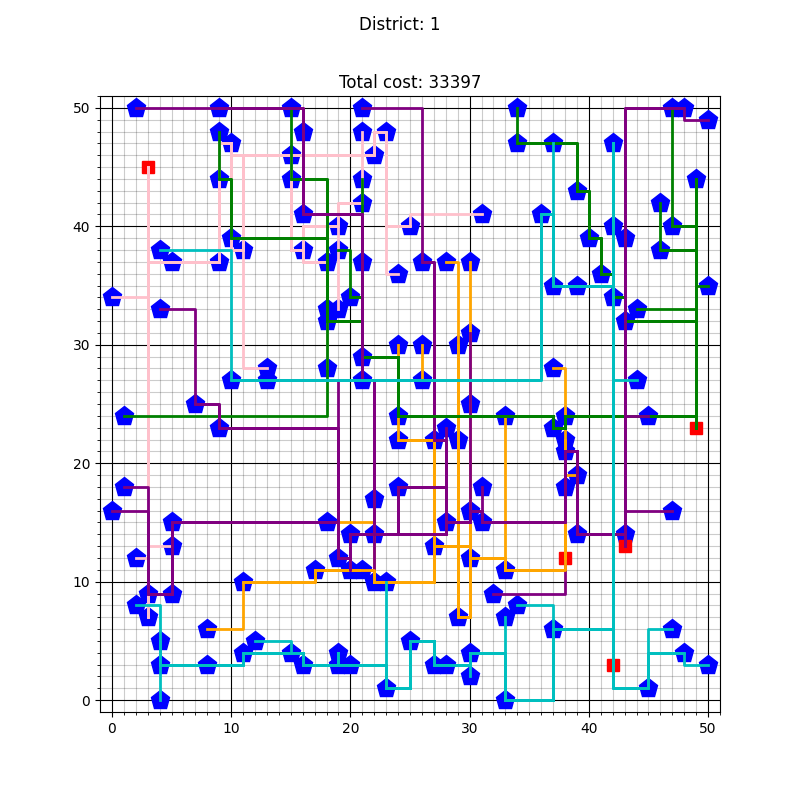
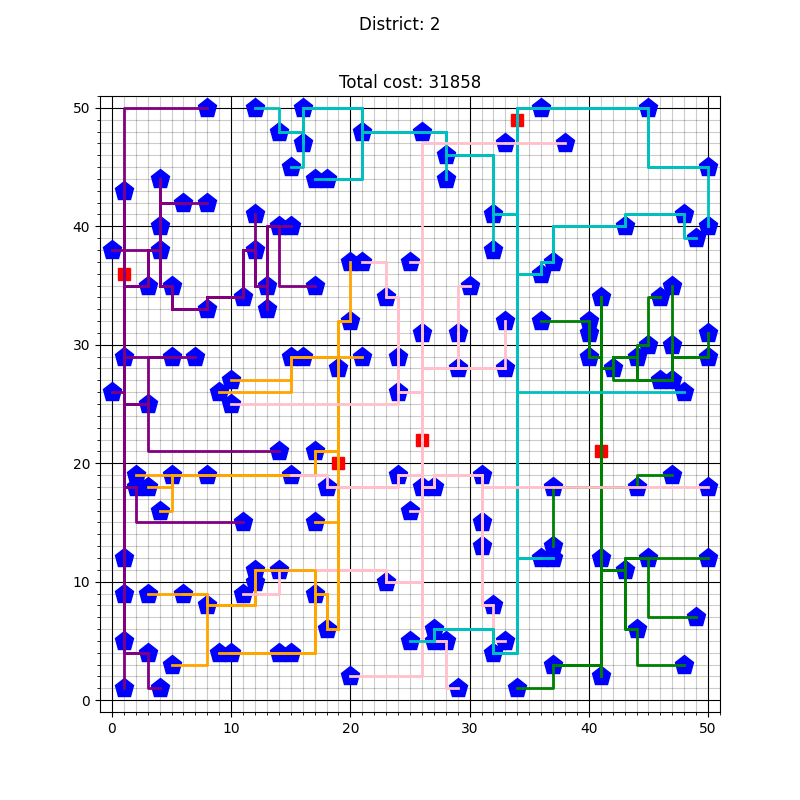
einde dag 2

Changed region(s): [[0.125, 0.125, 0.9062, 0.9062], [0.5312, 0.0938, 0.5938, 0.125], [0.1562, 0.125, 0.1875, 0.1562]]

diff --git a/code/algorithms/oud/classInitialSolution_noRandom.py b/code/algorithms/oud/classInitialSolution_noRandom.py
@@ -24,12 +24,14 @@ class InitialSolution(Grid):
 
         self.startConnect()
 
-        while len(self.cables) < 150:
+        self.allConnected = False
+        #while len(self.cables) < 150:
+        while not self.allConnected:
             self.connectLeftovers()
 
         return True
         
-        
+
     def startConnect(self):
         self.freeHouses = []
 
@@ -48,25 +50,61 @@ class InitialSolution(Grid):
         
 
     def connectLeftovers(self):
-
+        baseRemainingBatteryCapacity = {}
         for battery in self.batteries:
             housesInBattery = self.housesPerBattery(battery)
             house = housesInBattery[-1]
+            
             if self.removeConnection(house):
                 self.freeHouses.append(house)
+            
+            baseRemainingBatteryCapacity[battery] = battery.remainingCapacity()
+            #print(remainingBatteryCapacity[battery])
 
-        for i in range(200):
-            random.shuffle(self.freeHouses)
+        #permutationsList = [(0, 1, 3, 4, 6, 7, 8, 10, 2, 5, 9)]
+        n = len(self.freeHouses)
+        
+        #perms = list(permutations(range(n), n))
+        #perms = [perms[0], perms[1]]
+
+        for attempt in permutations(range(n), n):
+        #for attempt in perms:
+            #currentRemainingBatteryCapacity= copy.deepcopy(baseRemainingBatteryCapacity)
+            #print(attempt)
+            currentRemainingBatteryCapacity = {}
+
+            for battery in self.batteries:
+                currentRemainingBatteryCapacity[battery] = baseRemainingBatteryCapacity[battery]
+
+            self.freeHouses = self.sortHouses(self.freeHouses)     
+            
+            temp = []
+            for j in attempt:
+                temp.append(self.freeHouses[j])
+            
+            self.freeHouses = temp
+            
+            amountToConnect = n
+
+            #random.shuffle(self.freeHouses)
             for house in self.freeHouses:
                 self.sortBatteries(house)
-                for battery in self.batteries:                        
-                    if self.makeConnection(house, battery):
+                for battery in self.batteries:
+                    if currentRemainingBatteryCapacity[battery] - house.output > 0:
+                        currentRemainingBatteryCapacity[battery] -= house.output
+                        amountToConnect -= 1
                         break
+                    #if self.makeConnection(house, battery):
             
-            if len(self.cables) < 150:
+            #if len(self.cables) < 150:
+            if amountToConnect == 0:
+                print(attempt)
+                self.allConnected = True
                 for house in self.freeHouses:
-                    self.removeConnection(house)
-            else:
+                    self.sortBatteries(house)
+                    for battery in self.batteries:
+                        if self.makeConnection(house, battery):
+                            break
                 break
         
         return True

diff --git a/main.py b/main.py
@@ -21,27 +21,20 @@ runtime = 60 * 0.05
 now = datetime.datetime.now().strftime("%y%m%d-%H%M%S")
 name = f"terminalOutput/terminal_{now}.txt"
 
-with open(name, 'w') as f:
-    sys.stdout = f
+#with open(name, 'w') as f:
+#    sys.stdout = f
 
-    for district in range(1,2):
-        
-        print(f"DISTRICT: {district}")
-        print("_________________________________________")
-        grid = 0
-        #grid = RandomSwap(int(district))
-        grid = Share(int(district))
+for district in range(2,3):
+    
+    print(f"DISTRICT: {district}")
+    print("_________________________________________")
+    #grid = 0
+    grid = Share(int(district))
+    grid.runShare()
+    #grid.makePlot()
 
-        grid.runShare()
+    print("_________________________________________")
 
-        #grid.runInitialSolution()
-        #grid.output("")
-        #grid.makePlot()
-        
-        #grid.runRandomSwap(runtime)
-        print("_________________________________________")
-
-    #print(f"last: {grid.totalCost()}")
 
 
 

diff --git a/test.py b/test.py
@@ -1,0 +1,12 @@
+from itertools import permutations
+from itertools import combinations
+
+
+n = 11
+target = (0, 1, 3, 4, 6, 7, 8, 10, 2, 5, 9)
+
+for i in permutations(range(n), n):
+    if i == target:
+        print(i)
+        break
+
